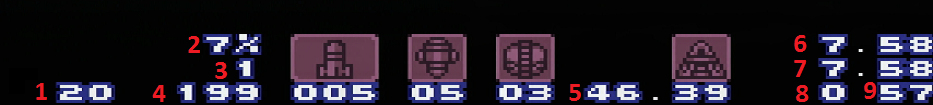
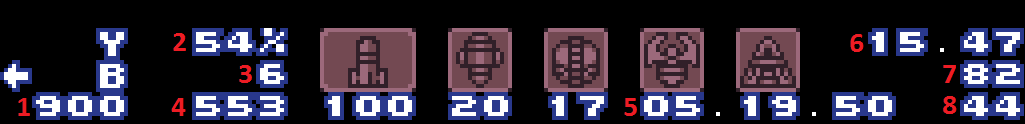
Update documentation
New build instructions for README
Update website Help page with new HUD legend image and breakdown of menu options

diff --git a/website/ClientApp/src/components/Help.js b/website/ClientApp/src/components/Help.js
@@ -22,13 +22,12 @@ export class Help extends Component {
                             <Row>
                                 <Col>
                                     <ol className="list" style={{fontSize: 1.1 + 'em'}}>
-                                        <li>Shows first enemy's HP, Charge Timer, X-Factor timer or Shinespark timer depending on settings.</li>
-                                        <li>Item Percentage</li>
-                                        <li>Number of e-tanks</li>
+                                        <li>Status display defaults to first enemy's HP, but can be configured to show Charge Timer, X-Factor timer, Shinespark timer and more.</li>
+                                        <li>Item percentage</li>
+                                        <li>Number of E-tanks</li>
                                         <li>Current total energy</li>
-                                        <li>Game time in minutes.seconds</li>
-                                        <li>Realtime timer in seconds.frames, resets when entering a new room and updates on item acquisition and room transitions.</li>
-                                        <li>Gametime timer in seconds.frames, works the same as above.</li>
+                                        <li>Segment timer in minutes.seconds.frames. Resets when loading a preset or by controller shortcut</li>
+                                        <li>Timer in seconds.frames, resets when entering a new room and updates on item acquisition and room transitions. Can be set to realtime or gametime</li>
                                         <li>Lag frames, updates same as above</li>
                                         <li>Frames spent by last door transition</li>
                                     </ol>
@@ -43,17 +42,21 @@ export class Help extends Component {
                             <Row><Col><h5>Controller 1</h5></Col></Row>
                             <Row>
                                 <Col md="2" style={{fontWeight: 'bold'}}>Start + Select</Col>
-                                <Col>Opens the in-game menu</Col>
+                                <Col>Opens the in-game menu (configurable in shortcuts menu)</Col>
                             </Row>
                             <Row>
                                 <Col md="2" style={{fontWeight: 'bold'}}>B</Col>
                                 <Col>Closes the in-game menu</Col>
                             </Row>
+                            <Row>
+                                <Col md="2" style={{fontWeight: 'bold'}}>Select+B+L</Col>
+                                <Col>Reloads the last used preset configurable in shortcuts menu)</Col>
+                            </Row>
                             <br />
                             <Row><Col><h5>Controller 2</h5></Col></Row>
                             <Row>
                                 <Col md="2" style={{fontWeight: 'bold'}}>L or R</Col>
-                                <Col>Toggles the HUD display mentioned in <em>1</em></Col>
+                                <Col>Toggles the status display options mentioned in <em>1</em></Col>
                             </Row>
                             <Row>
                                 <Col md="2" style={{fontWeight: 'bold'}}>Up</Col>
@@ -79,11 +82,171 @@ export class Help extends Component {
                         <CardBody>
                             <Row>
                                 <Col md="4">Equipment</Col>
-                                <Col>Opens the equipment menu</Col>
+                                <Col>Configure Samus' current equipment</Col>
                             </Row>
                             <Row>
-                                <Col md="3" className="offset-md-1">100%</Col>
-                                <Col>Gives the 100% item setup</Col>
+                                <Col md="3" className="offset-md-1">Refill</Col>
+                                <Col>Refills your ammo and energy to their current max</Col>
+                            </Row>
+                            <Row>
+                                <Col md="3" className="offset-md-1">Toggle Category</Col>
+                                <Col>Select a category to set your current equipment</Col>
+                            </Row>
+                            <Row>
+                                <Col md="3" className="offset-md-1">Toggle Category</Col>
+                                <Col>Select a category to set your current equipment</Col>
+                            </Row>
+                            <Row>
+                                <Col md="3" className="offset-md-1">Toggle Items</Col>
+                                <Col>Toggle major items</Col>
+                            </Row>
+                            <Row>
+                                <Col md="3" className="offset-md-1">Toggle Beams</Col>
+                                <Col>Toggle beams</Col>
+                            </Row>
+                            <Row>
+                                <Col md="3" className="offset-md-1">Energy Tanks</Col>
+                                <Col>Select your max E-tanks with left/right or A to increment</Col>
+                            </Row>
+                            <Row>
+                                <Col md="3" className="offset-md-1">Reserve Tanks</Col>
+                                <Col>Select your max Reserve Tanks with left/right or A to increment</Col>
+                            </Row>
+                            <Row>
+                                <Col md="3" className="offset-md-1">Super Missiles</Col>
+                                <Col>Select your max Super Missiles with left/right or A to increment</Col>
+                            </Row>
+                            <Row>
+                                <Col md="3" className="offset-md-1">Power Bombs</Col>
+                                <Col>Select your max Power Bombs with left/right or A to increment</Col>
+                            </Row>
+                            <Row>
+                                <Col md="4">Presets</Col>
+                                <Col>Presets are pre-configured savestates that are specific to a particular category. Select the desired category in the Misc menu.</Col>
+                            </Row>
+                            <Row>
+                                <Col md="4">Teleport</Col>
+                                <Col>Warp to any save station</Col>
+                            </Row>
+                            <Row>
+                                <Col md="4">Events</Col>
+                                <Col>Toggle event flags for doors, bosses, items, and other events</Col>
+                            </Row>
+                            <Row>
+                                <Col md="3" className="offset-md-1">Reset All Events</Col>
+                                <Col>Clear all event flags</Col>
+                            </Row>
+                            <Row>
+                                <Col md="3" className="offset-md-1">Reset All Doors</Col>
+                                <Col>Reset all door looks</Col>
+                            </Row>
+                            <Row>
+                                <Col md="3" className="offset-md-1">Reset All Items</Col>
+                                <Col>Replace all items that have already been collected</Col>
+                            </Row>
+                            <Row>
+                                <Col md="3" className="offset-md-1">Bosses</Col>
+                                <Col>Toggle boss kills</Col>
+                            </Row>
+                            <Row>
+                                <Col md="4">Misc</Col>
+                                <Col>Toggle extra features</Col>
+                            </Row>
+                            <Row>
+                                <Col md="3" className="offset-md-1">Blue Suit</Col>
+                                <Col>Give Samus the Blue Suit</Col>
+                            </Row>
+                            <Row>
+                                <Col md="3" className="offset-md-1">Flash Suit</Col>
+                                <Col>Give Samus the Flash Suit (aka Spike Suit)</Col>
+                            </Row>
+                            <Row>
+                                <Col md="3" className="offset-md-1">Hyper Beam</Col>
+                                <Col>Toggle Hyper Beam</Col>
+                            </Row>
+                            <Row>
+                                <Col md="3" className="offset-md-1">Baby Slowdown</Col>
+                                <Col>Toggle ultra slow horizontal movement, as if grabbed by the Baby Metroid</Col>
+                            </Row>
+                            <Row>
+                                <Col md="3" className="offset-md-1">Fanfare</Col>
+                                <Col>Toggle the fanfare for collecting items</Col>
+                            </Row>
+                            <Row>
+                                <Col md="3" className="offset-md-1">Music</Col>
+                                <Col>Toggle the music</Col>
+                            </Row>
+                            <Row>
+                                <Col md="3" className="offset-md-1">Preset Category</Col>
+                                <Col>Select the category to be used in the Presets menu</Col>
+                            </Row>
+                            <Row>
+                                <Col md="4">Infohud</Col>
+                                <Col>Configure the HUD</Col>
+                            </Row>
+                            <Row>
+                                <Col md="3" className="offset-md-1">Infohud Mode</Col>
+                                <Col>Select the value from RAM to be displayed in the bottom-left of the HUD</Col>
+                            </Row>
+                            <Row>
+                                <Col md="3" className="offset-md-1">Frame Counters</Col>
+                                <Col>Toggle the room timer in the top-right of the HUD between realtime and gametime</Col>
+                            </Row>
+                            <Row>
+                                <Col md="3" className="offset-md-1">Artificial Lag</Col>
+                                <Col>Select a value to adjust how much lag occurs during normal gameplay. This is to compensate for the lack of a minimap on the HUD which would normally consume CPU cycles.</Col>
+                            </Row>
+                            <Row>
+                                <Col md="3" className="offset-md-1">Magic Pants</Col>
+                                <Col>Toggle a flashing animation on Samus to show when dash should be held for short charging</Col>
+                            </Row>
+                            <Row>
+                                <Col md="4">Game</Col>
+                                <Col>Toggle pre-game options and Debug Mode without resetting</Col>
+                            </Row>
+                            <Row>
+                                <Col md="4">RNG Control</Col>
+                                <Col>Pre-determine boss patterns for Phantoon or Botwoon</Col>
+                            </Row>
+                            <Row>
+                                <Col md="3" className="offset-md-1">Rerandomize</Col>
+                                <Col>Toggles rerandomizing of RNG values upon loading a savestate. SD2SNES versions only.</Col>
+                            </Row>
+                            <Row>
+                                <Col md="3" className="offset-md-1">Phan 1st Phase</Col>
+                                <Col>Choose the direction and eye opening pattern for Phantoon's first phase</Col>
+                            </Row>
+                            <Row>
+                                <Col md="3" className="offset-md-1">Phan 2nd Phase</Col>
+                                <Col>Choose the direction and eye opening pattern for Phantoon's second and subsequent phases</Col>
+                            </Row>
+                            <Row>
+                                <Col md="3" className="offset-md-1">Botwoon RNG</Col>
+                                <Col>Choose the opening pattern for Botwoon's first cycle</Col>
+                            </Row>
+                            <Row>
+                                <Col md="4">Controller Shortcuts</Col>
+                                <Col>Set or change button combinations for activating features. Press A to select the shortcut and then hold the desired button combination until it turns pink.</Col>
+                            </Row>
+                            <Row>
+                                <Col md="3" className="offset-md-1">Main Menu</Col>
+                                <Col>Open the InfoHUD menu</Col>
+                            </Row>
+                            <Row>
+                                <Col md="3" className="offset-md-1">Reload Preset</Col>
+                                <Col>Reload the last selected category preset</Col>
+                            </Row>
+                            <Row>
+                                <Col md="3" className="offset-md-1">Reset Seg Timer</Col>
+                                <Col>Reset the segment timer. Takes effect immediately but only updates the display on certain events/actions.</Col>
+                            </Row>
+                            <Row>
+                                <Col md="3" className="offset-md-1">Full Equipment</Col>
+                                <Col>Refills your energy and ammo to their current max capacities</Col>
+                            </Row>
+                            <Row>
+                                <Col md="3" className="offset-md-1">Kill Enemies</Col>
+                                <Col>Instantly deletes all enemies in the current room</Col>
                             </Row>
                         </CardBody>
                     </Card>

diff --git a/README.md b/README.md
@@ -4,15 +4,14 @@ This page hosts the source material for the Super Metroid Practice Hack. It is i
 
 ## Getting Started:
 
-1. Copy your SM rom (NTSC only) into the \resources\ folder.
-2. Rename the rom to `sm_orig.sfc`.
-3. Download asar from https://github.com/RPGHacker/asar and place it in the \tools\ folder.
-3. Run build.bat to apply the changes.
-4. Locate the modified roms in \build\.
+1. Download asar from https://github.com/RPGHacker/asar and place it in the \tools\ folder.
+2. Download and install Python 3 from https://python.org. Windows users will need to set the PATH environmental variable to point to their Python installation folder.
+3. Run build.bat to create IPS patch files.
+4. Locate the patch files in \build\.
 
 ## Which rom should I use?
 
-The build script will create several versions of the practice hack for various speedrun categories. Roms that feature "sd2snes" in the filename have the built-in savestate feature enabled. This is only intended for use with the SD2SNES cartridge and will likely cause crashes if used with Everdrives and most emulators (including Virtual Console). The Super NT is compatible, although it may require a firmware update.
+The build script will create two IPS patch files for the practice hack. The patch that feature "sd2snes" in the filename will have the built-in savestate feature enabled. This is only intended for use with the SD2SNES cartridge and will likely cause crashes if used with Everdrives and most emulators (including Virtual Console). The Super NT is compatible, although it may require a firmware update. You will need an IPS patcher utility, such as Lunar IPS or Floating IPS, to apply the patch to your vanilla SM rom.
 
 ## Known Issues:
 
